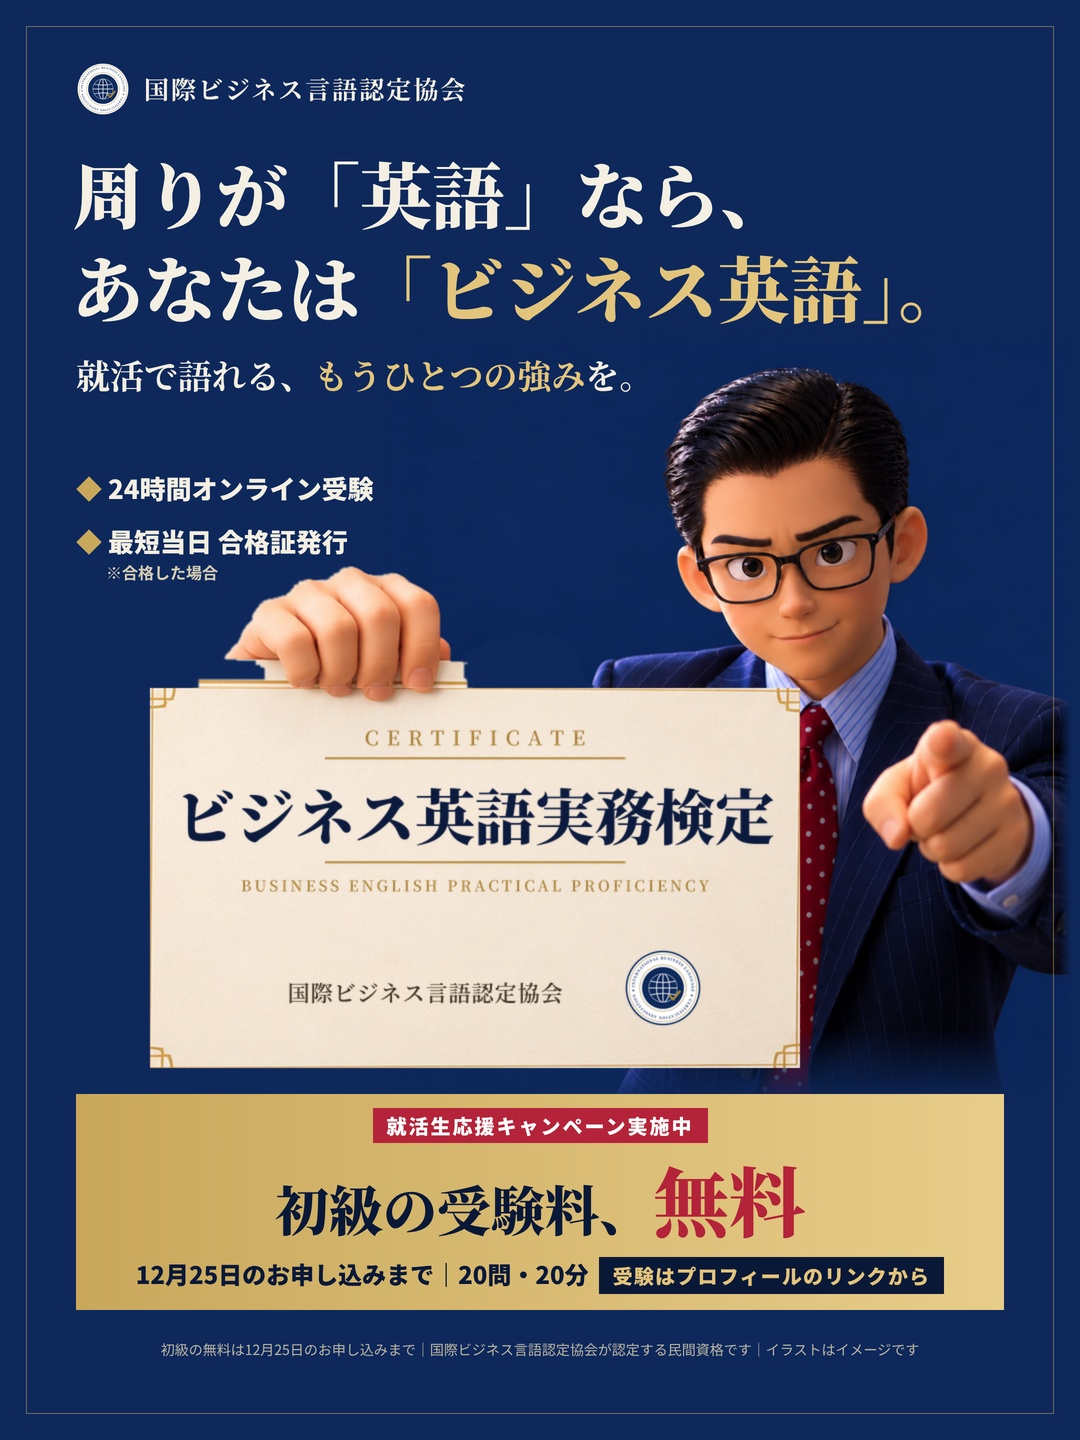
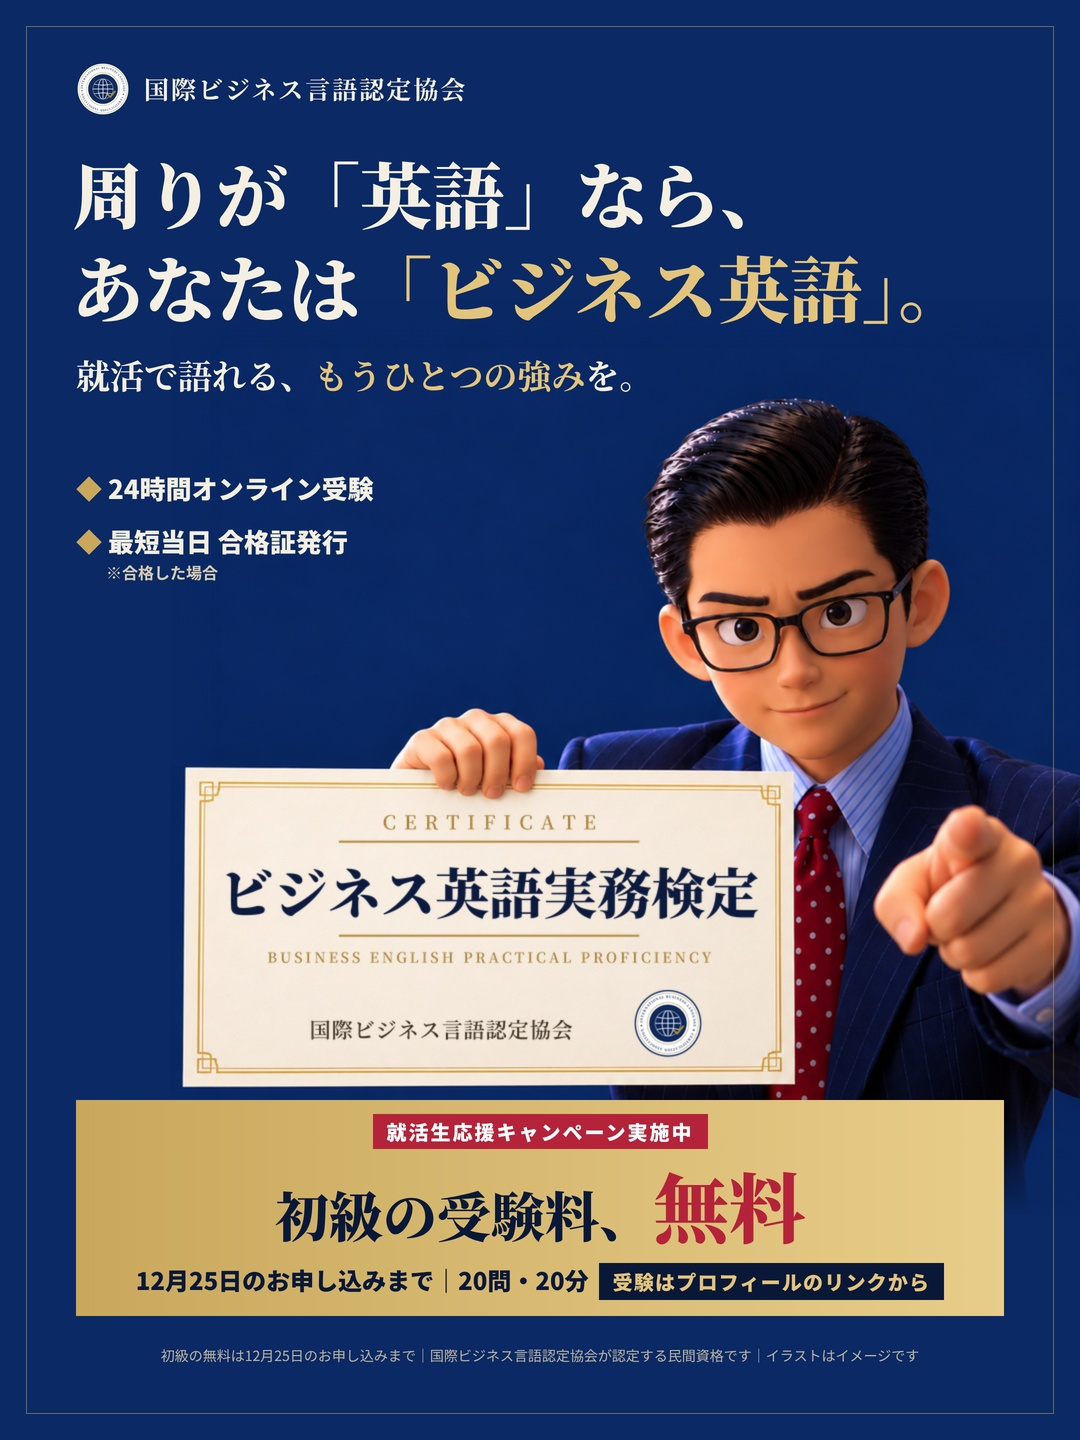
インスタ固定投稿用 v23：横長の合格証の新しい絵で（決定版）
Claude-Session: https://claude.ai/code/session_014p5jL2LKN9C3tYKst8GaL5

Changed region(s): [[0.0611, 0.25, 1.0, 0.9688]]

diff --git a/content/posters/ig_v23.html b/content/posters/ig_v23.html
@@ -1,0 +1,35 @@
+<!doctype html><html><head><meta charset="utf-8"><style>
+*{margin:0;padding:0;box-sizing:border-box}
+html,body{width:1080px;height:1440px;overflow:hidden}
+body{font-family:"Noto Sans CJK JP",sans-serif;color:#f4efe2;-webkit-font-smoothing:antialiased;background:#0a2965;position:relative}
+.frame{position:absolute;left:26px;top:26px;right:26px;bottom:26px;border:1.5px solid rgba(201,168,92,.5);z-index:5}
+.brand{position:absolute;left:76px;top:62px;display:flex;align-items:center;gap:14px;z-index:4}
+.brand img{width:54px;height:54px}
+.brand .n{font-family:"Noto Serif CJK JP",serif;font-weight:700;font-size:25px;letter-spacing:.08em}
+.head{position:absolute;z-index:4;left:72px;right:60px;top:146px;font-family:"Noto Serif CJK JP",serif;font-weight:900;font-size:72px;line-height:1.3}
+.head em{font-style:normal;color:#e3c47c}
+.sub{position:absolute;z-index:4;left:76px;top:350px;font-family:"Noto Serif CJK JP",serif;font-weight:700;font-size:34px}
+.sub em{font-style:normal;color:#e3c47c}
+.ken{position:absolute;left:0;top:0;width:1080px;z-index:1}
+.fadeb{position:absolute;left:0;right:0;top:1060px;height:80px;background:linear-gradient(180deg,rgba(14,40,92,0),#0e285c 75%);z-index:2}
+.chips{position:absolute;z-index:4;left:76px;top:470px;display:flex;flex-direction:column;gap:16px;font-weight:900;font-size:26px;color:#f4efe2}.chips small{display:block;margin-left:30px!important;font-size:16px!important;color:#d6cdb4}
+.chips span:before{content:"◆ ";color:#c9a85c}.chips small{font-size:14px;font-weight:700;margin-left:4px}
+.cta{position:absolute;z-index:4;left:76px;right:76px;top:1100px;background:linear-gradient(90deg,#c9a85c,#e8cd8a);color:#0a1838;text-align:center;padding:14px 12px 16px}
+.cta .t{display:inline-block;background:#b4233a;color:#fff;font-weight:900;font-size:20px;letter-spacing:.1em;padding:3px 14px}
+.cta .nm{margin-top:4px;font-family:"Noto Serif CJK JP",serif;font-weight:900;font-size:52px;line-height:1.15;letter-spacing:.04em}
+.cta .nm:after{content:"";display:block;width:460px;height:1.5px;background:rgba(10,24,56,.45);margin:6px auto 2px}
+.cta .a{margin-top:10px;font-family:"Noto Serif CJK JP",serif;font-weight:900;font-size:54px;line-height:1.2}
+.cta .a b{font-size:76px;color:#b4233a}
+.cta .b{margin-top:12px;font-weight:900;font-size:24px}
+.cta .b span{display:inline-block;background:#0a1838;color:#e3c47c;padding:4px 14px;margin-left:10px;font-size:20px;letter-spacing:.06em}
+.note{position:absolute;z-index:4;left:0;right:0;top:1346px;text-align:center;font-size:14px;color:#b9b3a2}
+</style></head><body>
+<div class="frame"></div>
+<img class="ken" src="ken_layer23.png">
+<div class="brand"><img src="logo.png"><div class="n">国際ビジネス言語認定協会</div></div>
+<div class="head">周りが「英語」なら、<br>あなたは<em>「ビジネス英語」。</em></div>
+<div class="sub">就活で語れる、<em>もうひとつの強み</em>を。</div>
+<div class="chips"><span>24時間オンライン受験</span><span>最短当日 合格証発行<small>※合格した場合</small></span></div>
+<div class="cta"><div class="t">就活生応援キャンペーン実施中</div><div class="a">初級の受験料、<b>無料</b></div><div class="b">12月25日のお申し込みまで｜20問・20分<span>受験はプロフィールのリンクから</span></div></div>
+<div class="note">初級の無料は12月25日のお申し込みまで｜国際ビジネス言語認定協会が認定する民間資格です｜イラストはイメージです</div>
+</body></html>

diff --git a/log/posted.md b/log/posted.md
@@ -103,3 +103,4 @@
 - 2026-10-29 作成｜Instagram 固定投稿用 v20（決定版に差し替え）｜合格証を約1.4倍に拡大し、「ビジネス英語実務検定」を大きく｜未投稿（オーナーが自分で投稿）
 - 2026-10-29 作成｜Instagram 固定投稿用 v21（決定版に差し替え）｜合格証をさらに拡大（横幅660px）｜未投稿（オーナーが自分で投稿）
 - 2026-10-29 作成｜Instagram 固定投稿用 v22（決定版に差し替え）｜合格証を横に広げて縦を短く（下に伸びすぎを修正）｜未投稿
+- 2026-10-29 作成｜Instagram 固定投稿用 v23（決定版に差し替え）｜オーナーが ChatGPT で作り直した横長の合格証の絵を使用｜未投稿
